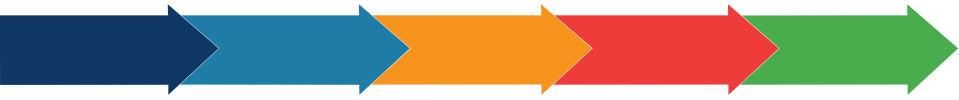
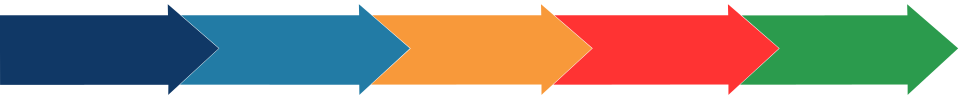
css stuffs

Changed region(s): [[0.3629, 0.06, 0.635, 0.93], [0.756, 0.06, 1.0, 0.93]]

diff --git a/app/assets/stylesheets/application.css b/app/assets/stylesheets/application.css
@@ -473,8 +473,8 @@ a.save-option{
 }
 
 #account img {
-  margin-top: 3px;
-  margin-left: 60px;
+  margin-top: 4px;
+  margin-left: 70px;
 }
 
 /* Navy: #003366
@@ -489,20 +489,20 @@ a.save-option{
 }
 
 .light-blue-provider {
-  background: #0775B0 !important;
+  background: #227ba5 !important;
 }
 
 .orange-provider {
-  background: #E09462 !important;
+  background: #f8993a !important;
 }
 
 .red-provider {
   color: #fff;
-  background: #C43149 !important;
+  background: #ff3333 !important;
 }
 
 .green-provider {
-  background: #06895E !important;
+  background: #2c9b4d !important;
 }
 
 .core-view {
